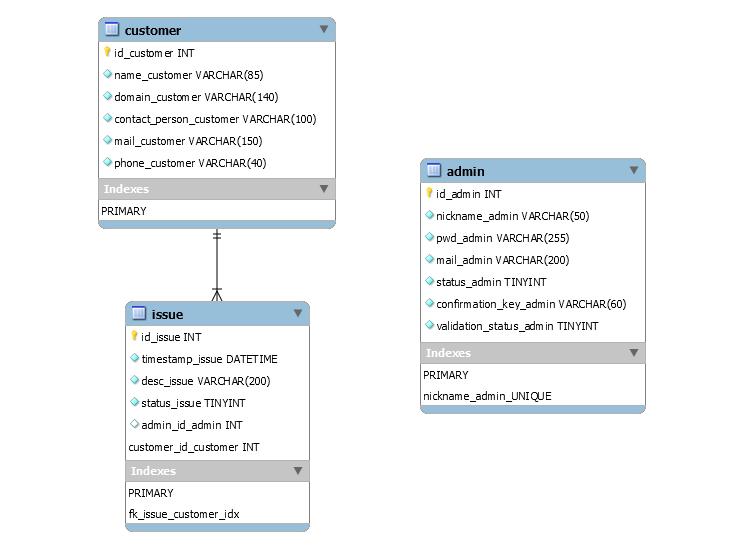
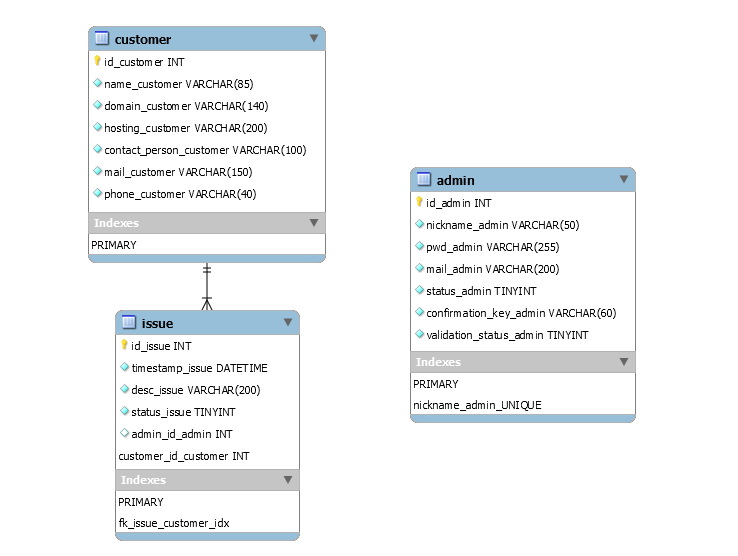
changes DB, start

Changed region(s): [[0.1204, 0.0306, 0.4815, 0.9802], [0.5417, 0.2757, 0.9029, 0.7658]]

diff --git a/public/css/style.css b/public/css/style.css
@@ -360,7 +360,7 @@ label {
     border: 1px solid #0E101D;
     border-radius: 20px;
     background-color: #0E101D;
-    height: 160px;
+    height: 290px;
     margin: 25px 35px;
     text-align: center;
 }
@@ -385,4 +385,17 @@ label {
 .monitoring-card em {
     opacity: 0.7;
     letter-spacing: 1px;
+}
+
+.monitoring-card img {
+    width: 160px;
+    height: auto;
+    position : relative;
+    bottom : 45px;
+    left: 90px;
+}
+
+.monitoring-card a {
+    position: relative;
+    bottom: 110px;
 }

diff --git a/model/Customer.php b/model/Customer.php
@@ -10,6 +10,7 @@ class Customer extends MappingTable {
     protected int $id_customer;
     protected string $name_customer;
     protected string $domain_customer;
+    protected string $hosting_customer;
     protected string $contact_person_customer;
     protected string $mail_customer;
     protected string $phone_customer;
@@ -38,6 +39,14 @@ class Customer extends MappingTable {
      */
     public function getDomainCustomer(): string {
         return $this->domain_customer;
+    }
+
+    /**
+     * $hosting_customer's getter
+     * @return string
+     */
+    public function getHostingCustomer(): string {
+        return $this->hosting_customer;
     }
 
     /**
@@ -106,6 +115,21 @@ class Customer extends MappingTable {
             trigger_error("The domain name can't be longer than 140 characters", E_USER_NOTICE);
         } else {
             $this->domain_customer = $domain_customer;
+        }
+    }
+
+    /**
+     * $hosting_customer's setter
+     * @param string $hosting_customer
+     */
+    public function setHostingCustomer(string $hosting_customer): void {
+        $hosting_customer = strip_tags(trim($hosting_customer));
+        if (empty($hosting_customer)) {
+            trigger_error("The hosting name can't be empty", E_USER_NOTICE);
+        } elseif (strlen($hosting_customer) > 200) {
+            trigger_error("The hosting name can't be longer than 200 characters", E_USER_NOTICE);
+        } else {
+            $this->hosting_customer = $hosting_customer;
         }
     }
 

diff --git a/model/AdminManager.php b/model/AdminManager.php
@@ -203,7 +203,7 @@ class AdminManager extends ManagerTable
     }
 
     // UPDATE ADMIN'S MAIN INFOS
-    function updateAdminInfos(Admin $admin): bool
+    public function updateAdminInfos(Admin $admin): bool
     {
 
         $sql = "UPDATE admin SET nickname_admin= ?, mail_admin= ? WHERE id_admin= ?; ";
@@ -232,7 +232,7 @@ class AdminManager extends ManagerTable
     }
 
     // UPDATE ADMIN'S PASSWORD
-    function updateAdminPassword(Admin $admin): bool
+    public function updateAdminPassword(Admin $admin): bool
     {
 
         // PASSWORD CRYPT
@@ -261,7 +261,7 @@ class AdminManager extends ManagerTable
     }
 
     // UPDATE ADMIN'S STATUS
-    function updateAdminStatus(int $idAdmin): bool
+    public function updateAdminStatus(int $idAdmin): bool
     {
 
         $sql = "UPDATE admin SET status_admin= ? WHERE id_admin= ?; ";
@@ -287,7 +287,7 @@ class AdminManager extends ManagerTable
     }
 
     // UPDATE ADMIN'S VALIDATION STATUS
-    function updateAdminValidationStatus(string $admin, string $key): bool
+    public function updateAdminValidationStatus(string $admin, string $key): bool
     {
 
         $sql = "UPDATE admin SET validation_status_admin= ? WHERE nickname_admin= ? AND confirmation_key_admin = ?; ";
